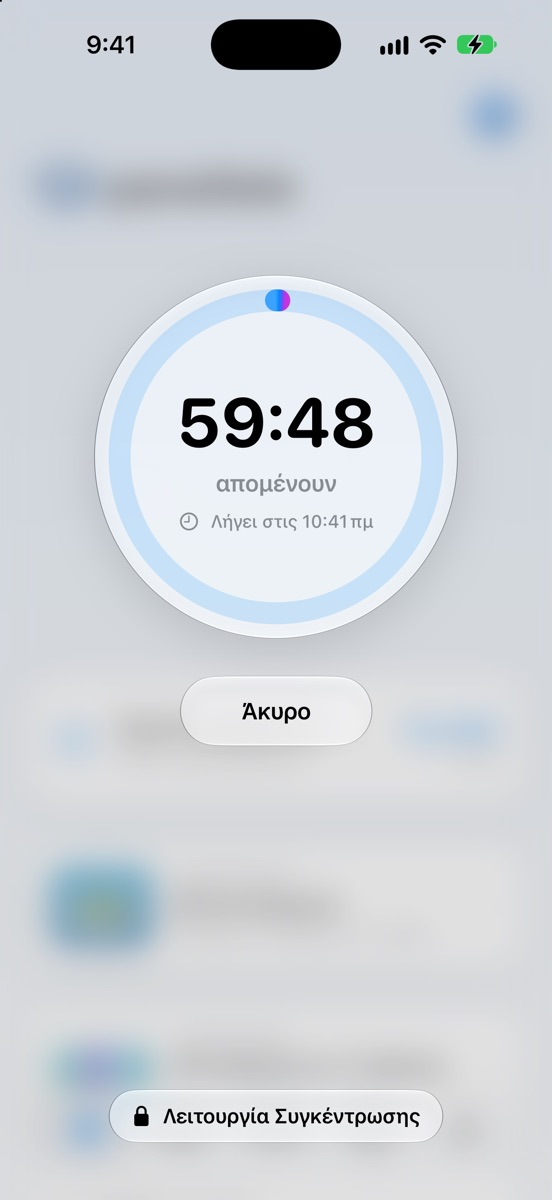
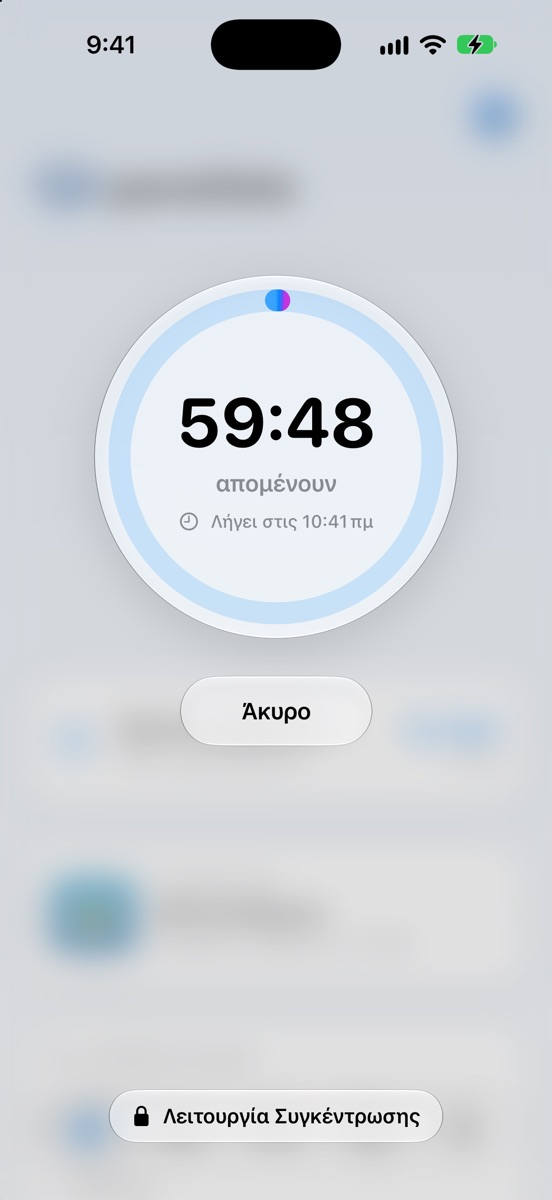
Συγκέντρωση ανά ώρα: Πολιτική Απορρήτου και αρχική σελίδα

Changed region(s): [[0.0924, 0.8633, 0.2772, 0.925], [0.1232, 0.7092, 0.308, 0.8017]]

diff --git a/privacy/index.html b/privacy/index.html
@@ -96,7 +96,7 @@
 <p><strong>Φίλοι.</strong> Αιτήματα φιλίας, φίλοι και μαθητές που έχεις αποκλείσει.</p>
 <p><strong>Αναφορές.</strong> Αν αναφέρεις έναν μαθητή (π.χ. για ακατάλληλο όνομα ή φωτογραφία), κρατάμε ποιον ανέφερες, τον λόγο και την ημερομηνία, για να το εξετάσουμε. Για κάθε νέα αναφορά μας έρχεται ειδοποίηση με email, με την ώρα, τον λόγο και τα ονόματα χρήστη των δύο μαθητών. Ο μαθητής που ανέφερες δεν μαθαίνει ποτέ ότι ήσουν εσύ. Όταν την εξετάσουμε, η απάντησή μας εμφανίζεται στην Αρχική της εφαρμογής.</p>
 <p><strong>Αναφορές λαθών και προβλημάτων.</strong> Αν μας στείλεις από την εφαρμογή ένα λάθος σε ερώτηση ή Κάρτα, ή ένα πρόβλημα, κρατάμε το μήνυμά σου, ποια ερώτηση ή Κάρτα αφορά, την ημερομηνία και την έκδοση της εφαρμογής και του iOS, για να το ελέγξουμε. Μας έρχεται ειδοποίηση με email, με το όνομα χρήστη σου, και η απάντησή μας εμφανίζεται στην Αρχική της εφαρμογής.</p>
-<p><strong>Συγκέντρωση.</strong> Πόσα λεπτά κράτησαν οι συνεδρίες σου, ανά ημέρα και συνολικά. Τις εφαρμογές που μένουν ανοιχτές τις διαλέγεις με τον Χρόνο επί οθόνης (Screen Time) της Apple, και η επιλογή μένει στη συσκευή σου: το Panellele δεν μαθαίνει ποιες εφαρμογές έχεις ούτε πόσο τις χρησιμοποιείς.</p>
+<p><strong>Συγκέντρωση.</strong> Πότε έγιναν οι συνεδρίες σου (ώρα έναρξης και λήξης) και πόσα λεπτά κράτησαν, ώστε να βλέπεις τη συγκέντρωσή σου ανά ώρα, ανά ημέρα και συνολικά. Οι φίλοι σου βλέπουν μόνο τα σύνολα ανά ημέρα, όχι τις ώρες. Τις εφαρμογές που μένουν ανοιχτές τις διαλέγεις με τον Χρόνο επί οθόνης (Screen Time) της Apple, και η επιλογή μένει στη συσκευή σου: το Panellele δεν μαθαίνει ποιες εφαρμογές έχεις ούτε πόσο τις χρησιμοποιείς.</p>
 <p><strong>Κήπος.</strong> Τα αντικείμενα που χτίζεις στο νησί του κήπου σου και η θέση τους. Ξεκλειδώνουν με τις ώρες συγκέντρωσης.</p>
 <p><strong>Κάρτες Μελέτης.</strong> Οι Κάρτες Μελέτης που έχεις κάνει αγαπημένες.</p>
 <p><strong>Ειδοποιήσεις.</strong> Αν τις επιτρέψεις, ένα αναγνωριστικό ειδοποιήσεων της συσκευής σου, για να σου έρχονται αιτήματα φιλίας και προκλήσεις μέσω της υπηρεσίας ειδοποιήσεων της Apple. Οι ειδοποιήσεις της συγκέντρωσης (π.χ. «Συγχαρητήρια!») δημιουργούνται στη συσκευή σου.</p>

diff --git a/index.html b/index.html
@@ -124,11 +124,11 @@
         <p>Ξεκίνα μια συνεδρία από 25 έως 120 λεπτά. Όσο διαρκεί, οι άλλες εφαρμογές κλειδώνουν, εκτός από έως 3 που διαλέγεις εσύ, και ο χρόνος που απομένει φαίνεται και στην οθόνη κλειδώματος.</p>
         <ul class="ticks">
           <li>Η επιλογή των εφαρμογών μένει στο iPhone σου.</li>
-          <li>Βλέπεις πόση ώρα συγκεντρώθηκες κάθε μέρα της εβδομάδας.</li>
+          <li>Βλέπεις πόση ώρα συγκεντρώθηκες κάθε μέρα της εβδομάδας και σε ποιες ώρες της ημέρας.</li>
           <li>Οι ώρες συγκέντρωσης ξεκλειδώνουν αντικείμενα για τον κήπο σου, ένα νησί της Αρχαίας Ελλάδας που το στήνεις όπως θέλεις: από ένα θυμάρι ως έναν ναό.</li>
         </ul>
       </div>
-      <figure class="shot"><div class="phone"><img src="/assets/screens/focus.jpg?v=b648224a" alt="Μια συνεδρία συγκέντρωσης σε εξέλιξη, με σχεδόν μία ώρα που απομένει και την ώρα που λήγει." width="552" height="1200" loading="lazy"></div></figure>
+      <figure class="shot"><div class="phone"><img src="/assets/screens/focus.jpg?v=b01e941a" alt="Μια συνεδρία συγκέντρωσης σε εξέλιξη, με σχεδόν μία ώρα που απομένει και την ώρα που λήγει." width="552" height="1200" loading="lazy"></div></figure>
     </article>
 
     <article class="feature feature-flip">
